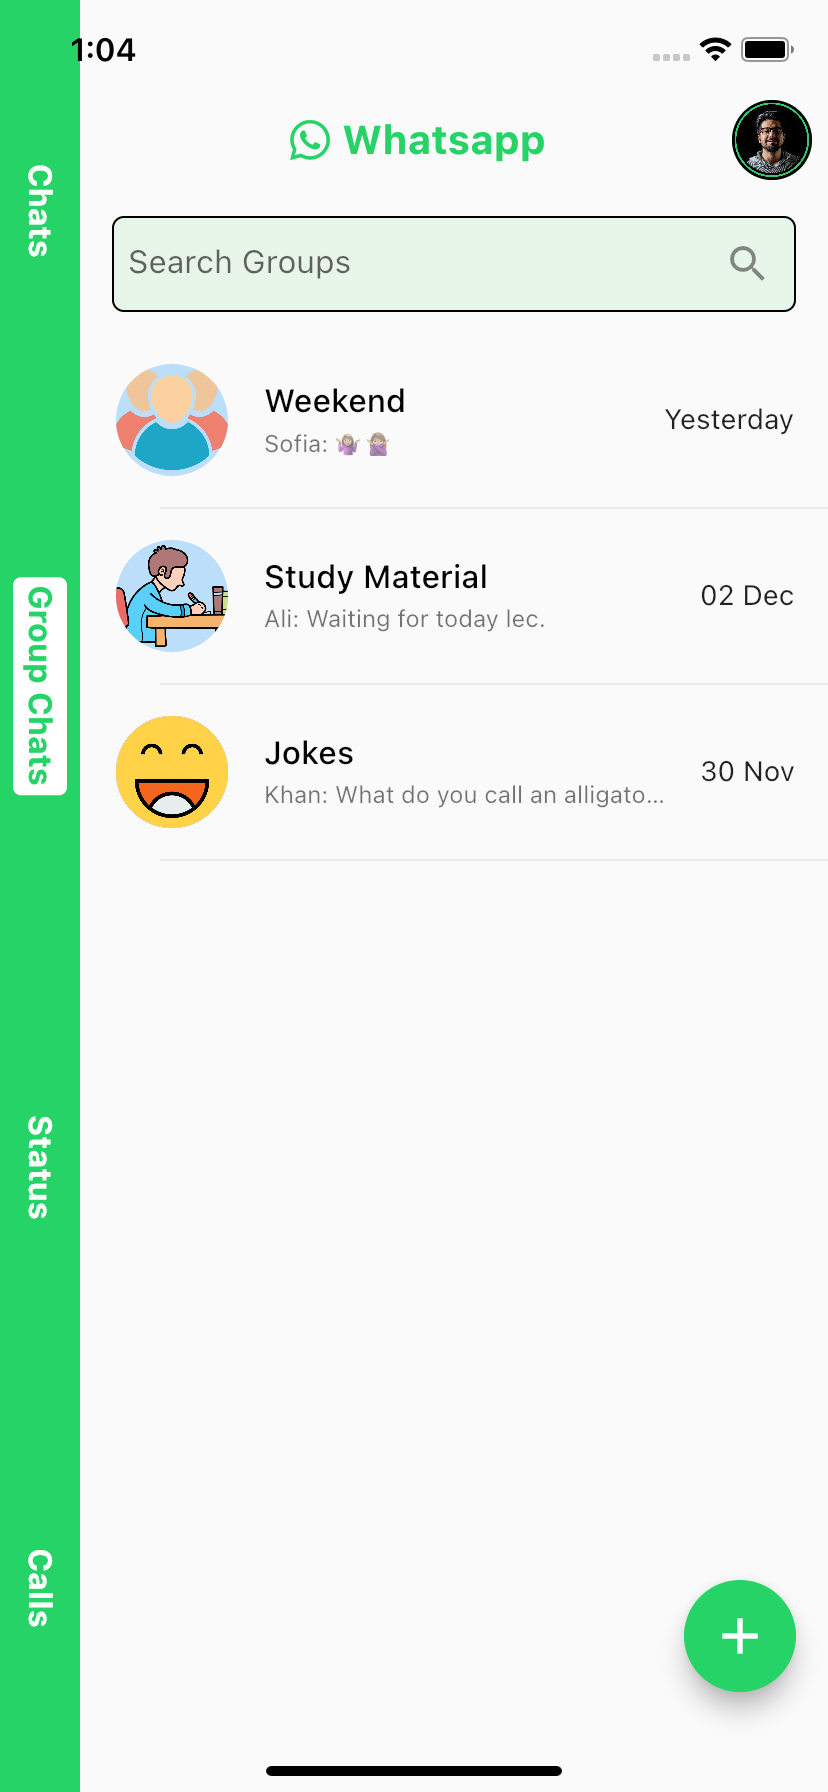
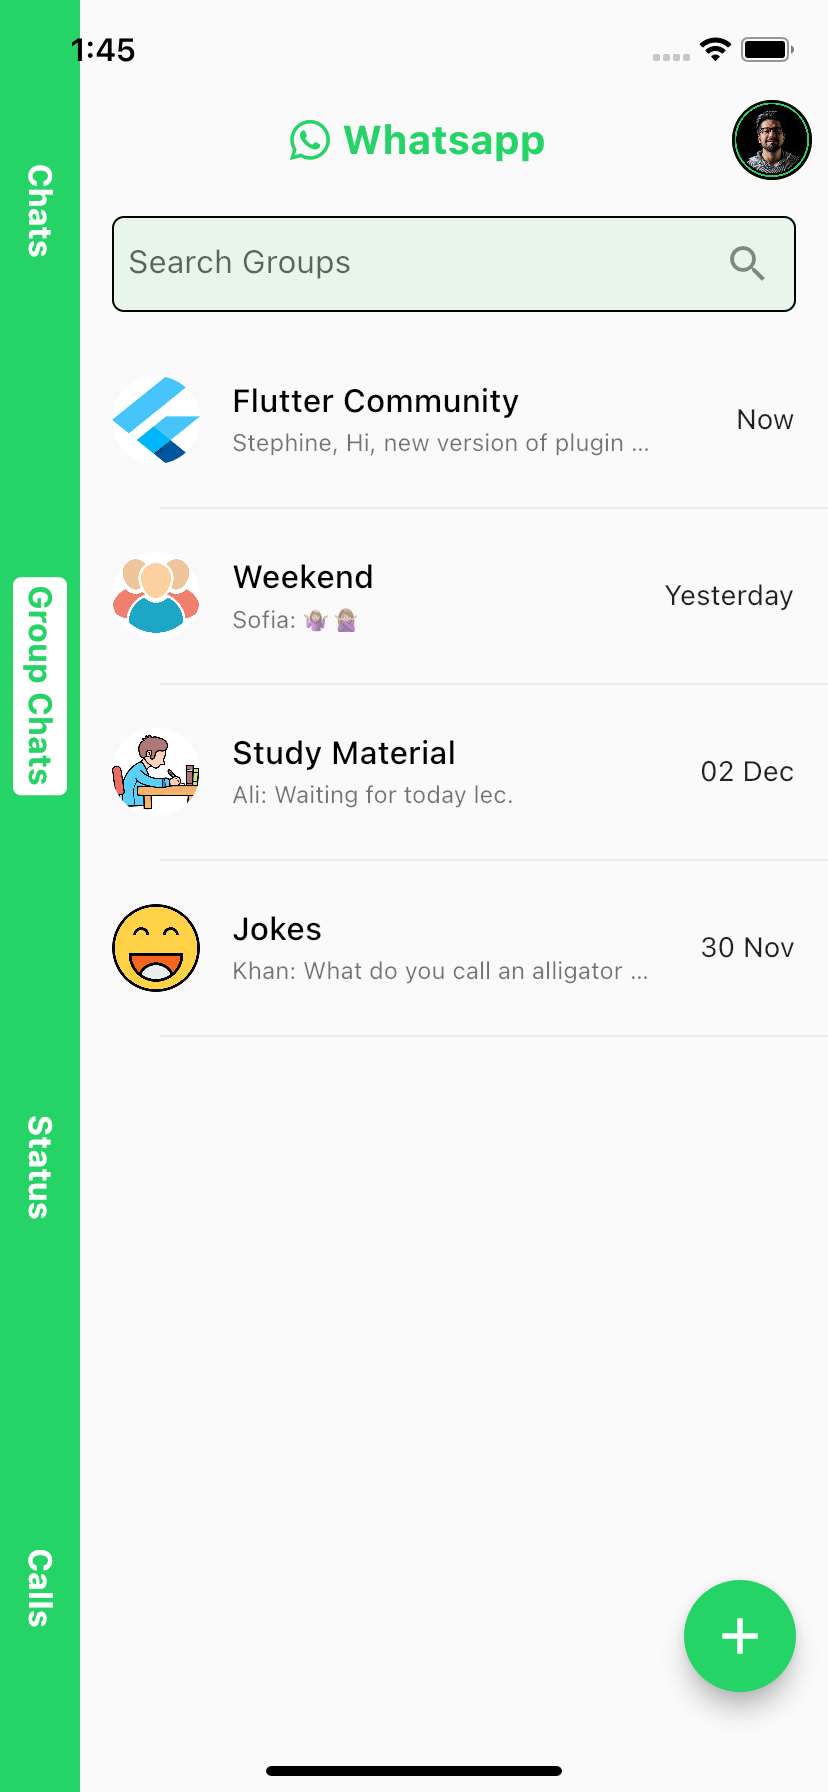
init

diff --git a/lib/presentation/home/widget/list_item.dart b/lib/presentation/home/widget/list_item.dart
@@ -1,3 +1,4 @@
+import 'package:cached_network_image/cached_network_image.dart';
 import 'package:flutter/material.dart';
 
 UserListTile(name, image, date, msg) {
@@ -5,8 +6,17 @@ UserListTile(name, image, date, msg) {
     children: [
       ListTile(
         leading: CircleAvatar(
-          maxRadius: 30,
-          backgroundImage: NetworkImage(image),
+          backgroundColor: Colors.white,
+          radius: 22,
+          child: ClipOval(
+            child: SizedBox.fromSize(
+              size: const Size.fromRadius(60), // Image radius
+              child: CachedNetworkImage(
+                imageUrl: image,
+                fit: BoxFit.fill,
+              ),
+            ),
+          ),
         ),
         title: Text(
           name,

diff --git a/lib/controller/group_chat_con.dart b/lib/controller/group_chat_con.dart
@@ -17,6 +17,14 @@ class GroupChatController extends GetxController with StateMixin {
     User u1;
     u1 = User(
         id: 1,
+        name: 'Flutter Community',
+        lastMessage: 'Stephine, Hi, new version of plugin available.',
+        image:
+        'https://seeklogo.com/images/F/flutter-logo-5086DD11C5-seeklogo.com.png',
+        date: 'Now');
+    groupsList.add(u1);
+    u1 = User(
+        id: 1,
         name: 'Weekend',
         lastMessage: 'Sofia: 🤷🏽♀🙅🏽♀',
         image:
